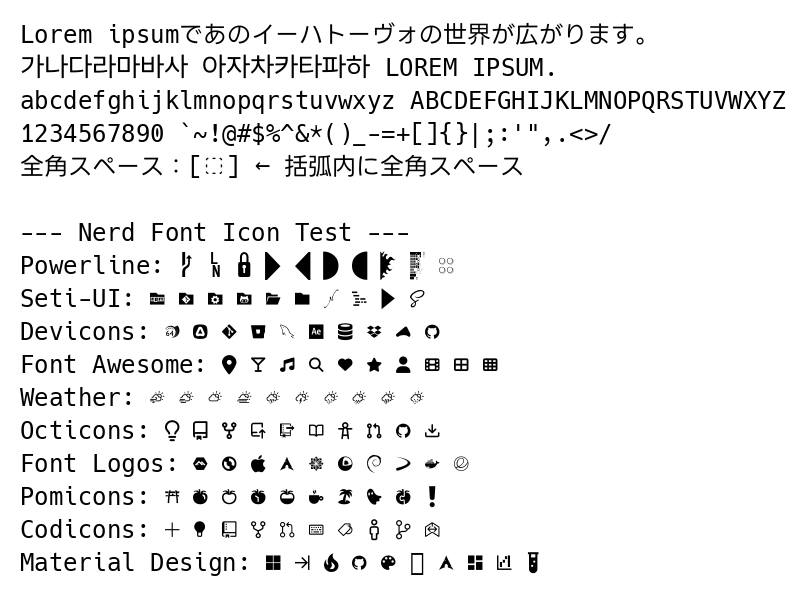
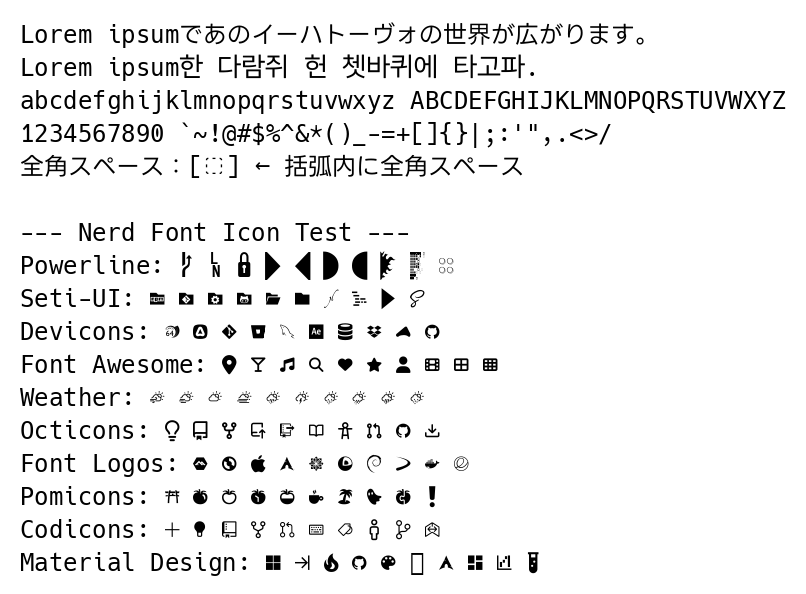
feat: 韓国語READMEを追加し、既存のREADMEとサンプル画像を更新

Changed region(s): [[0.031, 0.0909, 0.6824, 0.1515]]

diff --git a/README_ko.md b/README_ko.md
@@ -1,0 +1,99 @@
+# HackLine
+
+[Hack](https://github.com/source-foundry/Hack)과 [LINE Seed 폰트](https://seed.line.me/)를 합성한 프로그래밍 폰트, **HackLine**입니다.
+
+[日本語](README.md)
+
+## 특징
+
+- **영문**: Hack 폰트 기반 (프로그래밍용 고정폭 폰트)
+  - **전각:반각 = 5:3**: 전각 문자와 반각 문자가 5:3 비율인 wide font입니다. (2:1은 아직 없어요!)
+- **일본어 문자**: LINE Seed JP 기반 (히라가나, 가타카나, 한자 약 7,100자)
+- **한국어 문자**: 일본어와 한국어를 동시에 다루는 환경을 위해 LINE Seed JP와 KR을 추가한 **HackLine JK**
+  - 한글은 일본어 문자와 같은 너비로 조정했습니다.
+- **Nerd Font 지원**: 아이콘 폰트 (Devicons, Codicons, FontLogos 등)
+- **전각 공백 시각화**: 일본어에서 자주 쓰이는 전각 공백(U+3000)을 시각적으로 식별할 수 있습니다.
+
+| ![Sample](docs/HackLineSample.png) | ![Sample](docs/HackLineSampleClang.png) |
+|---|---|
+
+
+## 다운로드
+
+[**Releases**](https://github.com/nemu626/hackline/releases/latest)에서 최신 버전을 다운로드할 수 있습니다.
+
+### 배포 파일
+
+| 파일명 | 내용 |
+|-----------|------|
+| `HackLine-vX.X.X.zip` | **기본 버전** (Regular, Bold) |
+| `HackLineJK-vX.X.X.zip` | **JK(한글 지원) 버전** (Regular, Bold) |
+| `HackLineNF-vX.X.X.zip` | **Nerd Font 버전** (아이콘 포함) |
+| `HackLine-All-vX.X.X.zip` | 전체 세트 |
+
+### 폰트 종류
+
+| 폰트명 | 설명 |
+|-----------|------|
+| **HackLine-Regular/Bold** | 기본 폰트. 라틴 문자 + 일본어 |
+| **HackLineNF-Regular/Bold** | Nerd Font 버전. 위 + 아이콘 (Devicons, Codicons, FontLogos, Octicons 등) |
+
+> **💡 Tip**: 터미널이나 에디터에서 아이콘을 표시하려면 **NF 버전**을 사용하세요.
+
+## 빌드 방법
+
+### 필요 사항
+
+- Python 3.x
+- fonttools (`pip install fonttools`)
+- `zip`, `unzip` 명령어
+
+### 빌드 절차
+
+```bash
+# 자동 빌드 (기본 버전만)
+./build.sh
+
+# Nerd Font 버전도 포함하여 빌드
+./build.sh --nerd
+```
+
+### 수동 빌드
+
+```bash
+# 소스 폰트 다운로드
+curl -L -o Hack-v3.003-ttf.zip https://github.com/source-foundry/Hack/releases/download/v3.003/Hack-v3.003-ttf.zip
+unzip Hack-v3.003-ttf.zip -d hack_font
+
+curl -L -o LINE_Seed_JP.zip "https://seed.line.me/src/images/fonts/LINE_Seed_JP.zip"
+unzip LINE_Seed_JP.zip -d line_seed_font
+
+# Nerd Font patcher 다운로드 (선택)
+curl -L -o FontPatcher.zip https://github.com/ryanoasis/nerd-fonts/releases/download/v3.3.0/FontPatcher.zip
+unzip FontPatcher.zip -d font_patcher
+
+# 폰트 생성
+python3 merge_fonts.py
+
+# Nerd Font 버전 생성
+python3 add_nerd_glyphs.py
+```
+
+
+## 라이선스
+
+- **폰트**: SIL Open Font License 1.1
+- **빌드 스크립트**: MIT License
+
+자세한 내용은 [LICENSE](LICENSE) 및 `/LICENSES`를 참조하세요.
+참조한 폰트의 라이선스에 대해서는 각 폰트의 리포지토리를 참조하세요.
+
+#### 참조 폰트
+
+- [Hack](https://github.com/source-foundry/Hack) - Source Foundry
+- [LINE Seed JP, Line Seed KR](https://seed.line.me/) - LY Corporation
+- [Nerd Fonts](https://github.com/ryanoasis/nerd-fonts) - Ryan L McIntyre
+
+## 감사의 말
+각 폰트를 배포해 주신 분들께 감사드립니다.
+또한 일본어 합성 폰트와 Nerd Font 지원 등에 [yuru7](https://github.com/yuru7)님의 [HackGen](https://github.com/yuru7/HackGen) 작업을 참고했습니다. 감사합니다.

diff --git a/README.md b/README.md
@@ -1,6 +1,8 @@
 # HackLine
 
-Hack と LINE Seed JP を合成したプログラミングフォント。
+Hack と LINE Seed Font を合成した等幅プログラミングフォント。
+
+[한국어](README_ko.md)
 
 
 ## 特徴
